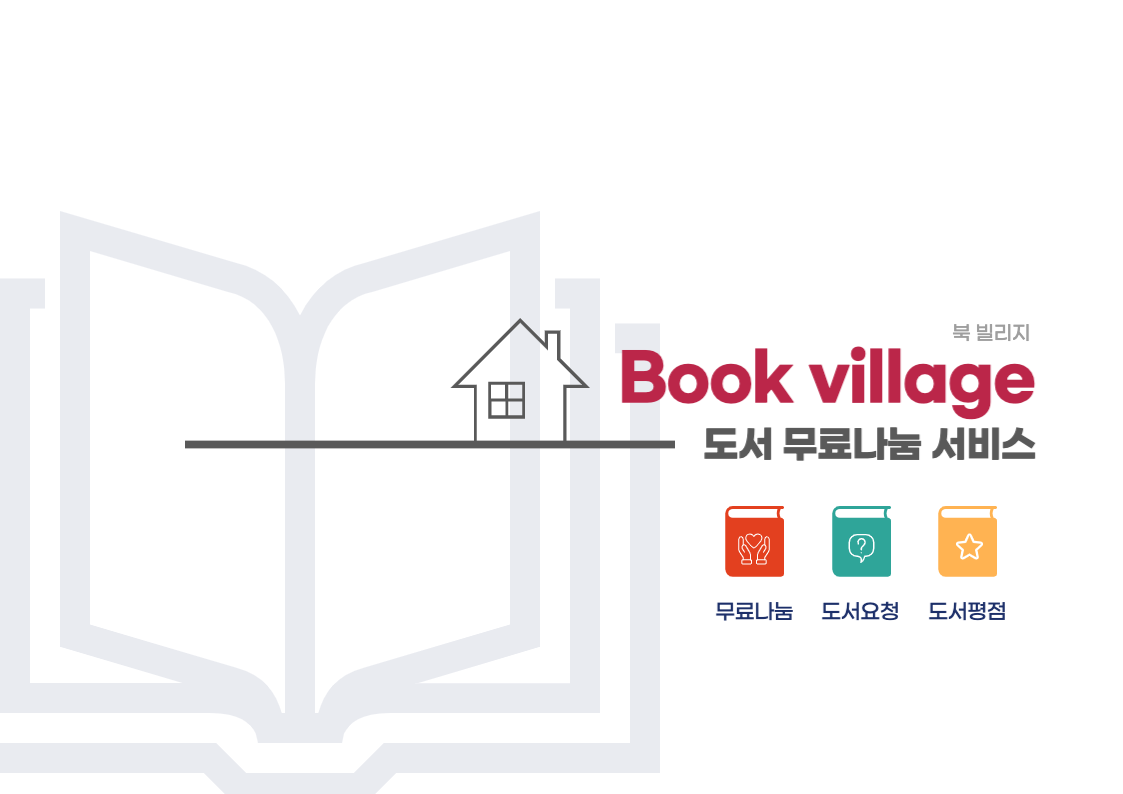
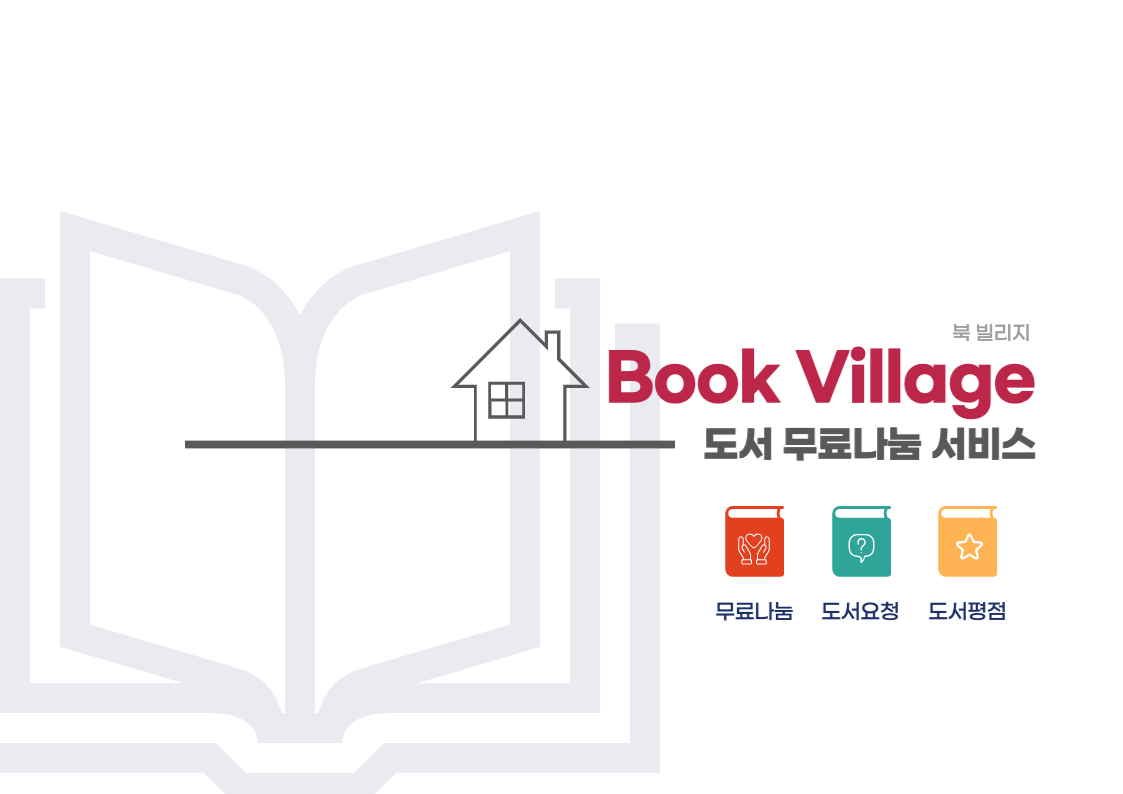
fix/fe/design: 파비콘, 캐러셀 이미지 수정

Changed region(s): [[0.5298, 0.4232, 0.7792, 0.5139]]

diff --git a/client/public/index.html b/client/public/index.html
@@ -10,7 +10,7 @@
       content="Web site created using create-react-app"
     />
     <link rel="apple-touch-icon" href="%PUBLIC_URL%/logo192.png" />
-    <title>Book village</title>
+    <title>Book Village</title>
   </head>
   <body>
     <noscript>You need to enable JavaScript to run this app.</noscript>
